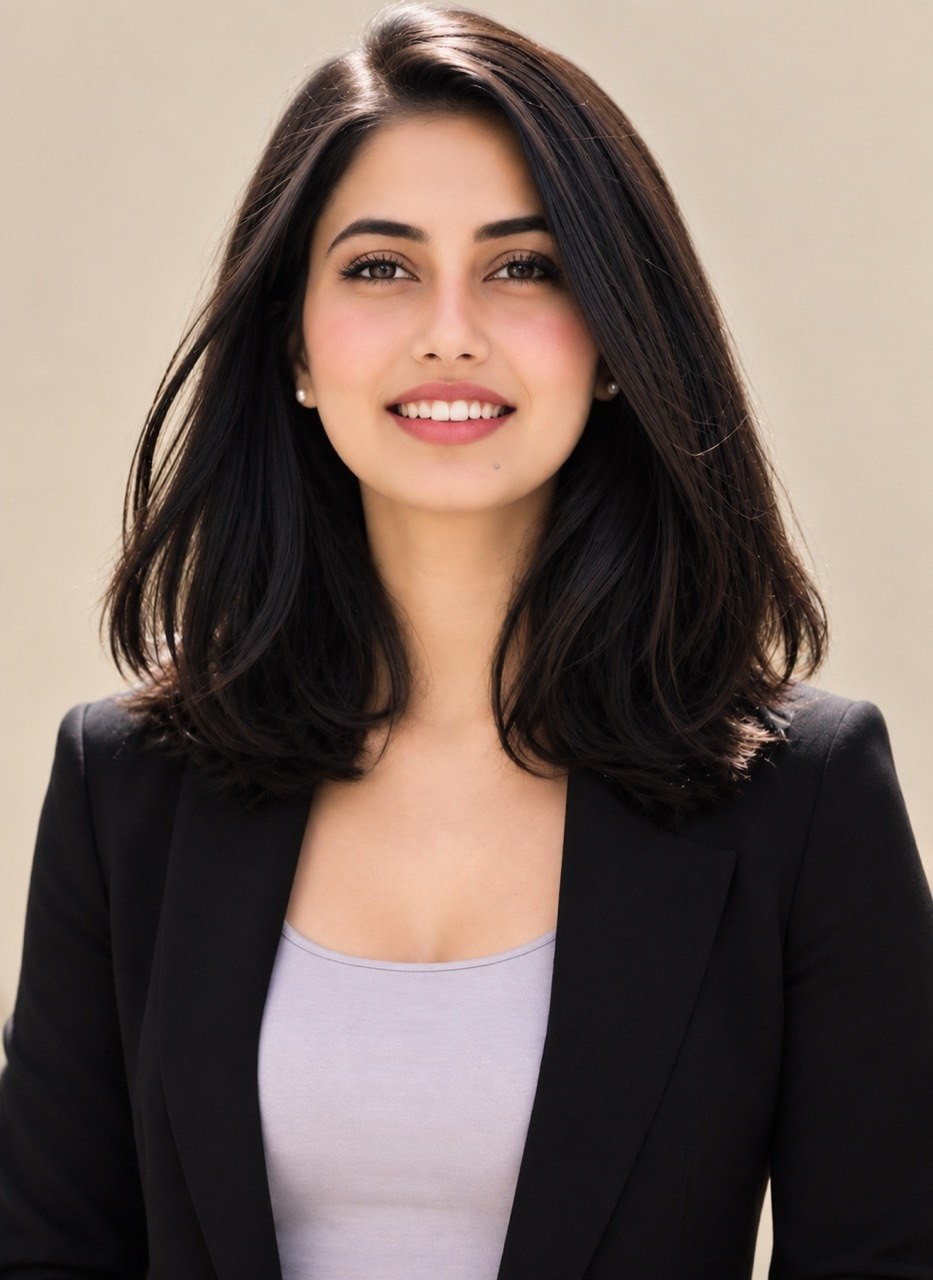
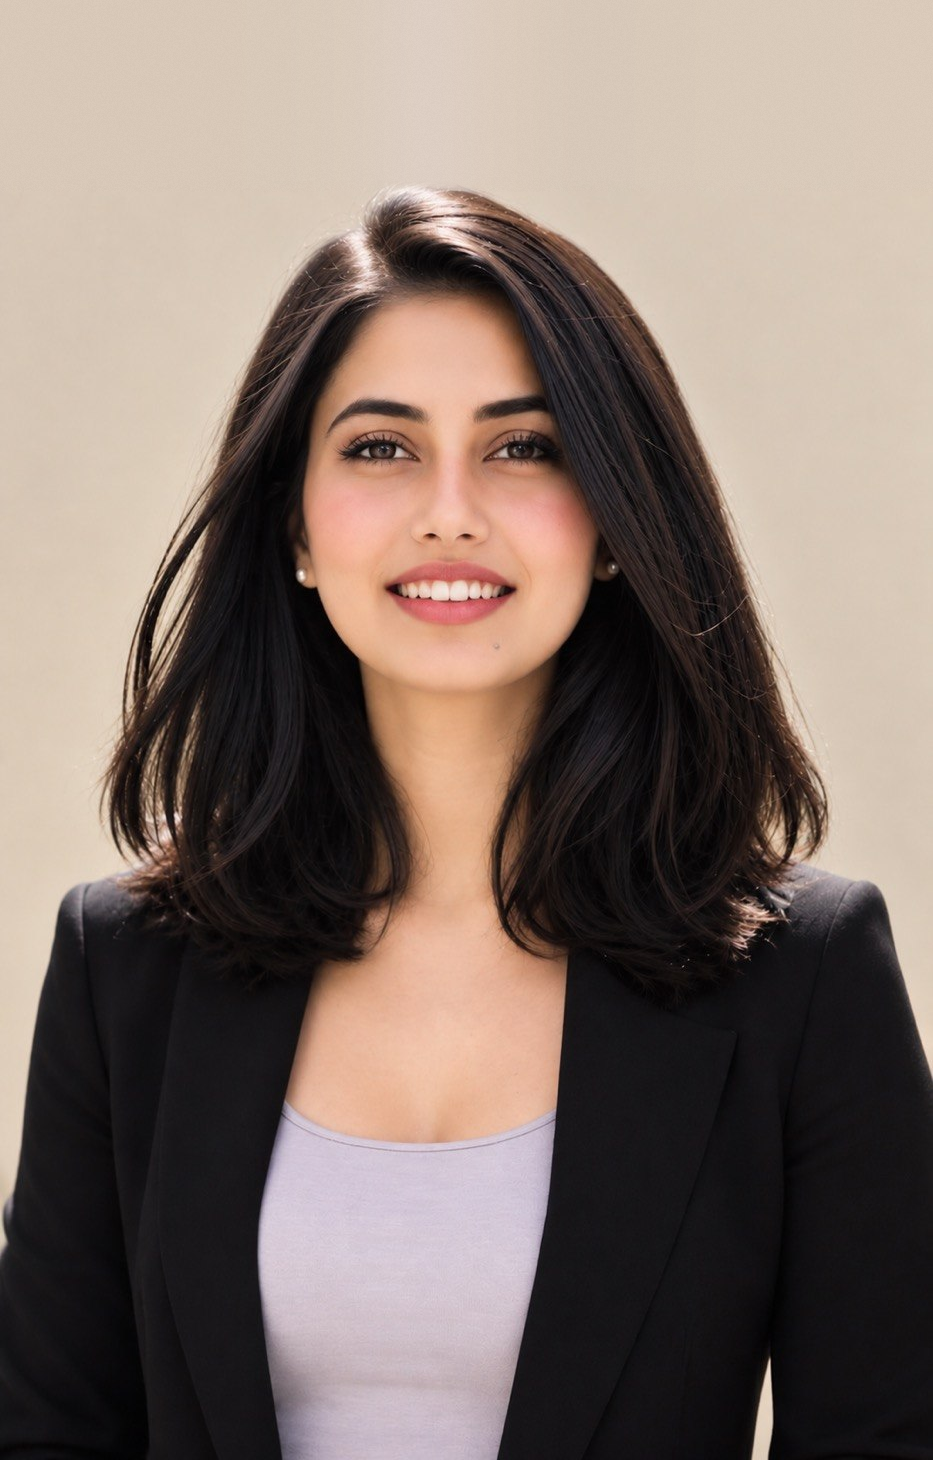
Add headroom above the hero portrait (#107)
* Replace hero profile photo

Claude-Session: https://claude.ai/code/session_01AzR9C6W97ninb1X9sfMRBP

* Serve new portrait at /images/profile.png

Claude-Session: https://claude.ai/code/session_01AzR9C6W97ninb1X9sfMRBP

* Show hero photo at its natural portrait height

Claude-Session: https://claude.ai/code/session_01AzR9C6W97ninb1X9sfMRBP

* Add headroom above the hero portrait

Claude-Session: https://claude.ai/code/session_01AzR9C6W97ninb1X9sfMRBP

---------

diff --git a/layouts/landing/list.html b/layouts/landing/list.html
@@ -136,7 +136,7 @@ nav{
   border-radius:18px;overflow:hidden;
   background:linear-gradient(160deg,var(--cream) 0%,var(--blush) 45%,var(--rose) 100%);
   border:1px solid var(--rule);
-  aspect-ratio:933/1280;width:100%;
+  aspect-ratio:933/1460;width:100%;
   display:flex;flex-direction:column;align-items:center;justify-content:center;gap:.75rem;
   position:relative;cursor:pointer;
   box-shadow:0 8px 40px rgba(39,21,16,.08);
@@ -601,7 +601,7 @@ footer span{font-size:.7rem;font-weight:600;color:rgba(255,255,255,.55);letter-s
   .pub-links{flex-direction:row;align-items:flex-start;}
   .ticker{display:none;}
   .h-right{flex-direction:column;}
-  .h-photo{flex:none;aspect-ratio:933/1280;width:100%;}
+  .h-photo{flex:none;aspect-ratio:933/1460;width:100%;}
   .hobby-grid{grid-template-columns:repeat(2,1fr);}
   .proj-card{grid-template-columns:1fr;gap:1.5rem;padding:1.5rem;}
 }
